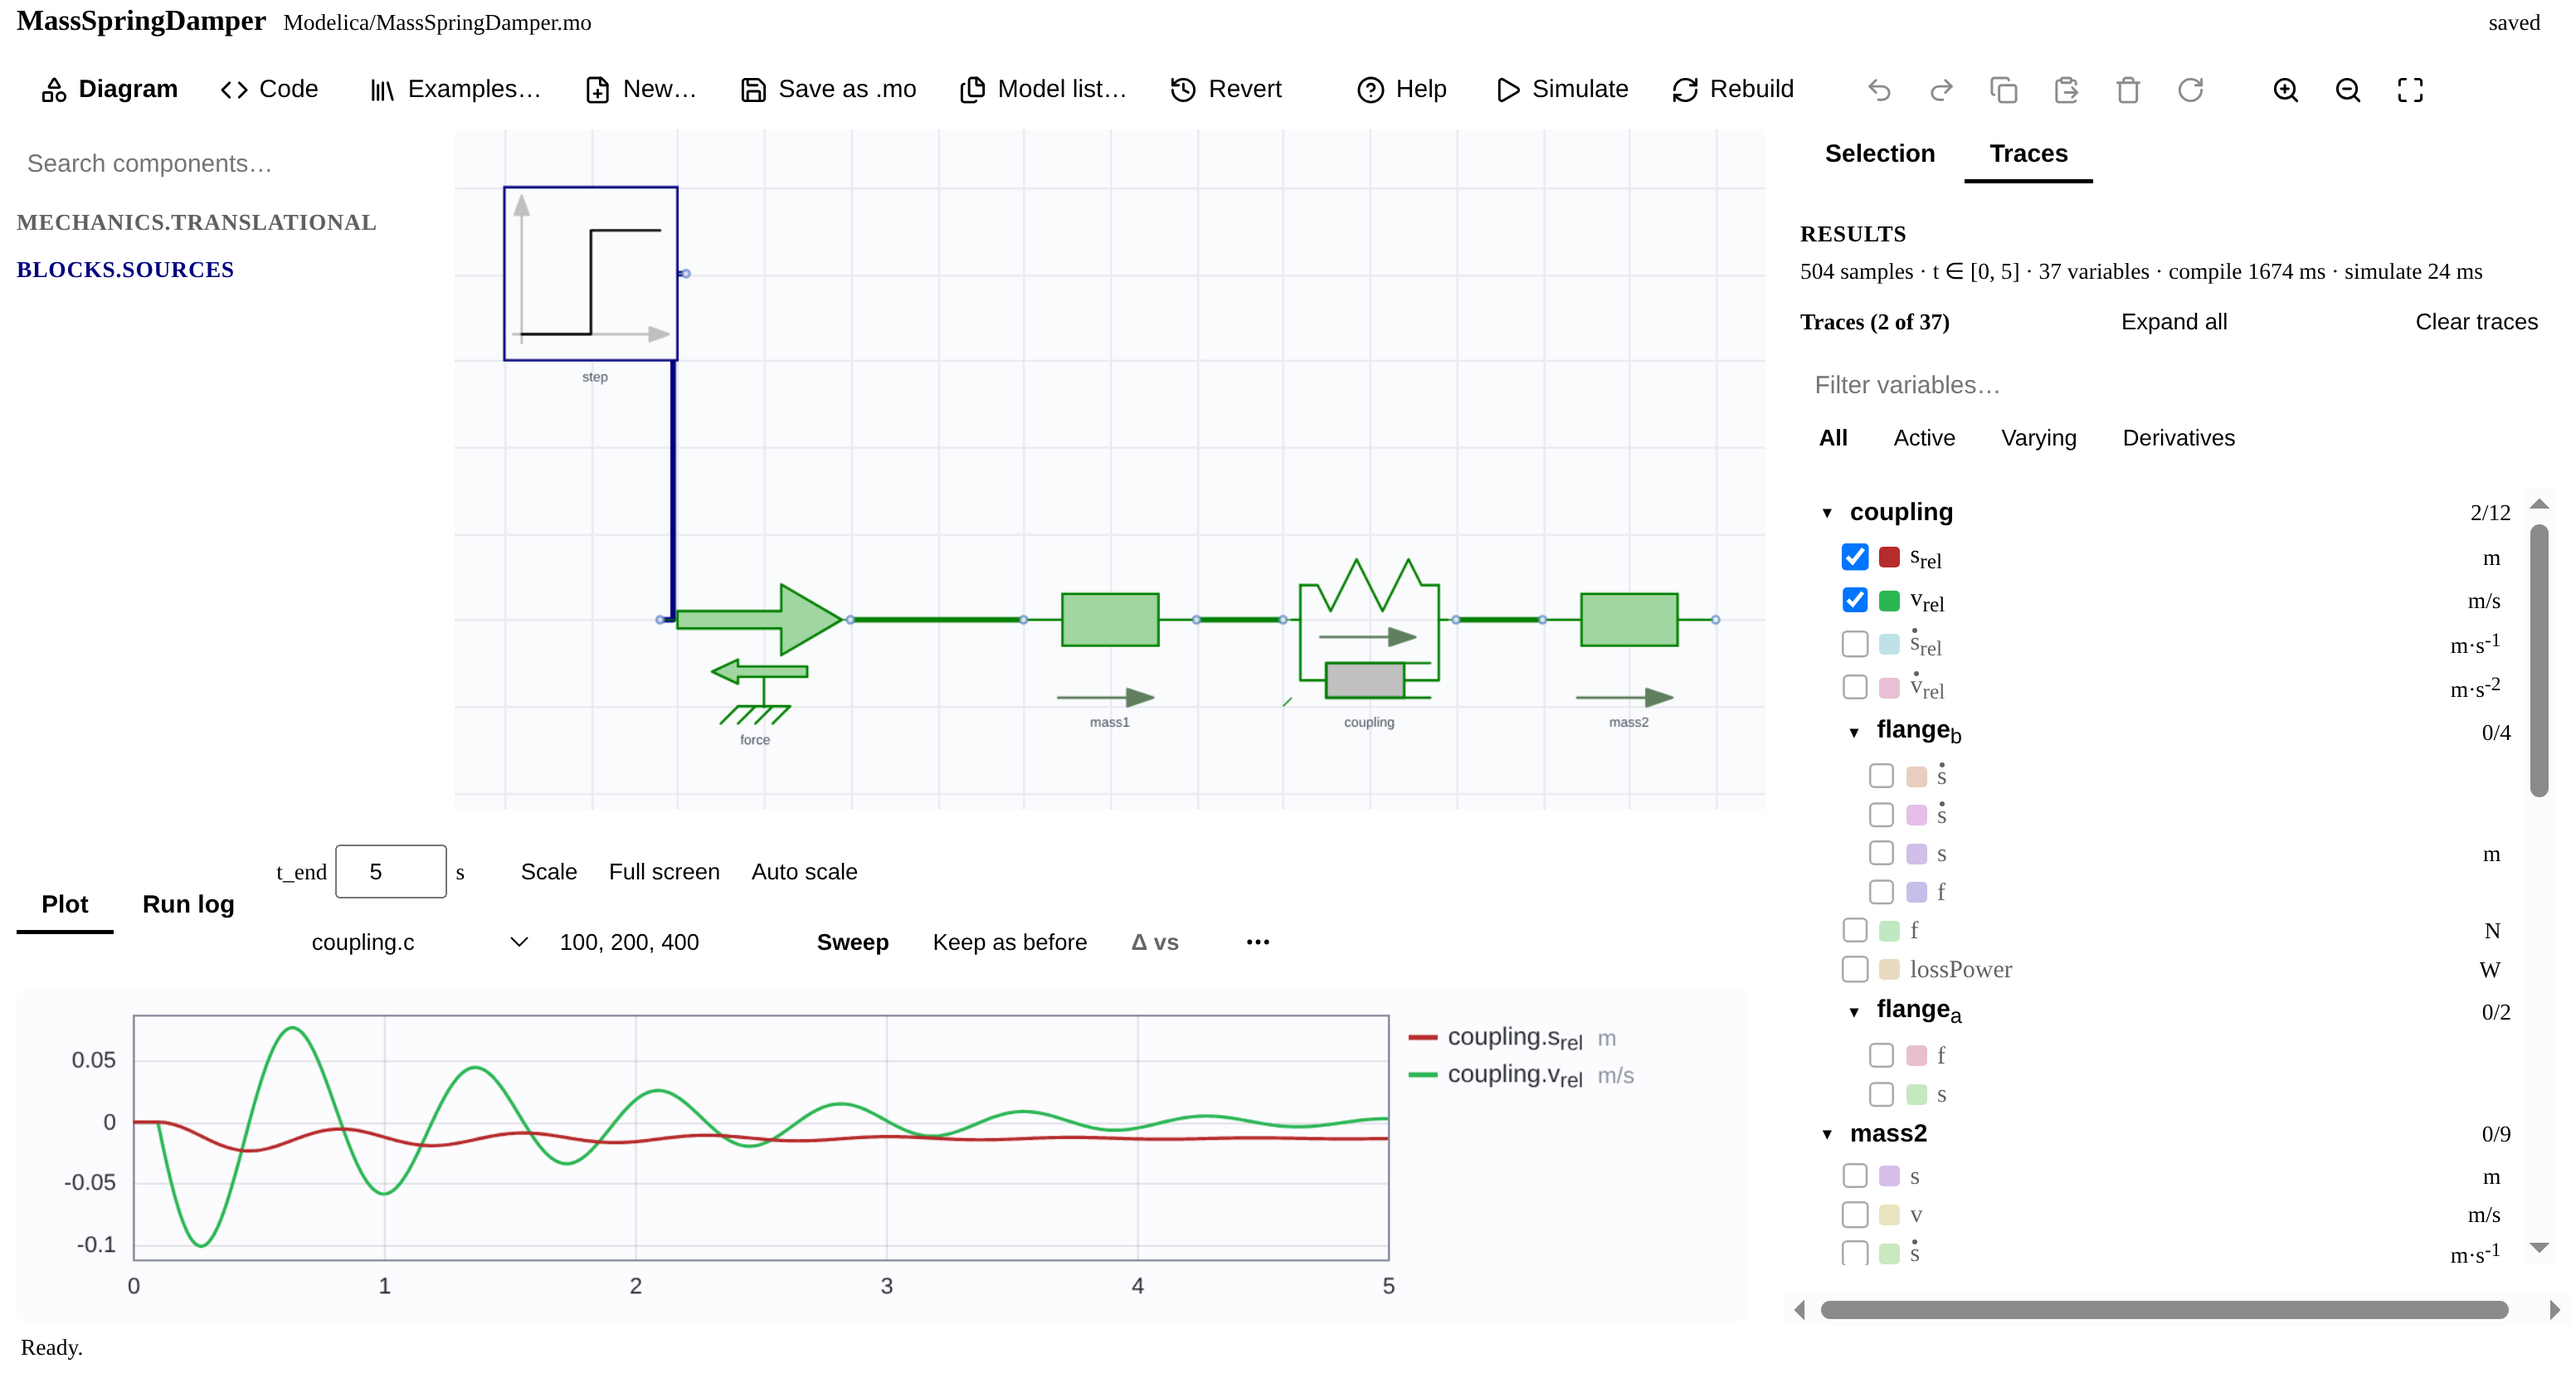
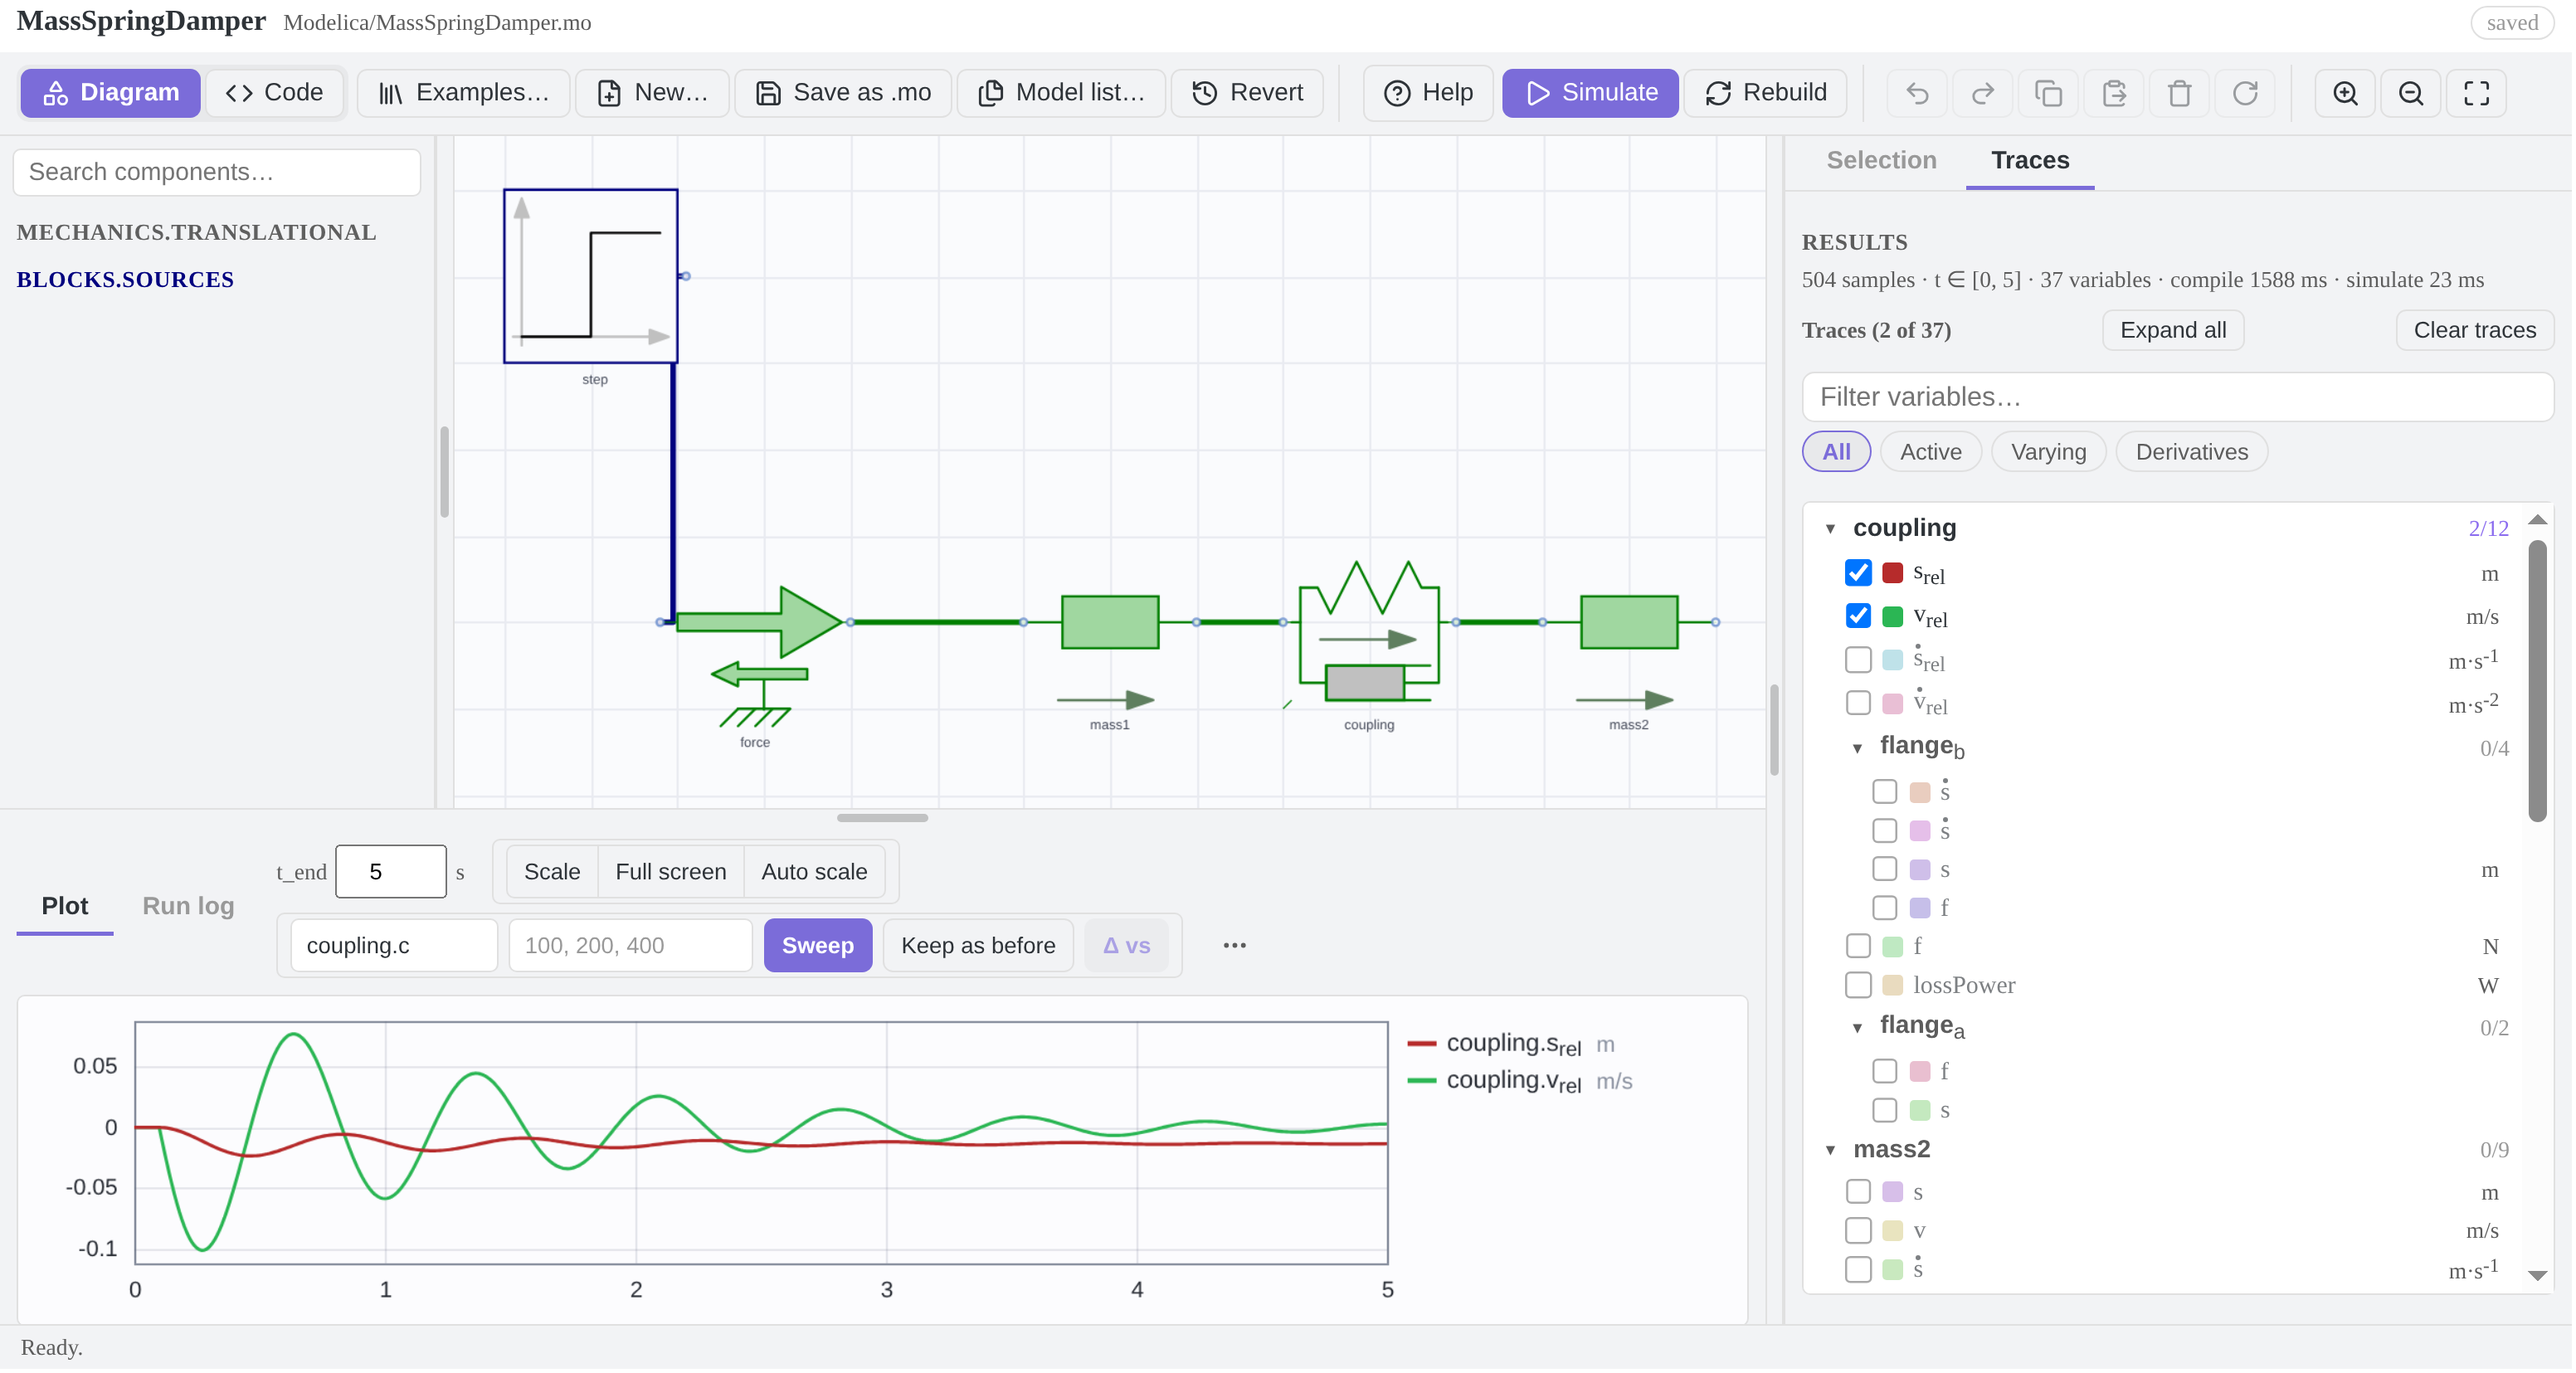
the screenshots were rendered without any theme variables at all
Reported as "some are partly in dark mode", and the cause was not the timing: the
page had NO theme variables. They were read from `/tmp/app.css` when that file
happened to exist and from nothing when it did not — silently — so every panel
resolved `var(--background-primary)` to nothing and drew transparent on white,
while the canvases kept their own colours. Sixteen images shipped that way, and the
audit is blunt about it:

  help-dark.png        24 of 24 regions read as LIGHT (the whole image)
  studio-dark.png      17 of 24
  embed-dark.png        6 of 24
  embedPlot-dark.png    6 of 24
  every other image     0

The theme now comes from the repo — `test/helpers/theme-css.mjs`, the same
stylesheet the rendered DOM tests use — with Obsidian's default LIGHT values added
beside the dark ones it already had; `:root`'s dark values applied whatever class
the body carried, so `theme-light` rendered dark. The Help panel, which builds a
page of its own, was reading the same missing file and hard-coding a light body.

And the images are now CHECKED rather than trusted, which is what the report was
really asking for: after each capture the run measures the 80th-percentile
luminance of a grid of regions and fails, writing nothing, if a region belongs to
the other theme. It waits for two animation frames rather than for a duration
before capturing. Both are new, and the check immediately earned its place — it
caught the Help panel being captured in the light theme on the first run.
[…]

diff --git a/scripts/readme-scenes.ts b/scripts/readme-scenes.ts
@@ -56,6 +56,14 @@ declare global {
     __sceneHelp: () => unknown;
     __sceneStudio: (data: SceneData) => unknown;
     __SCENES__: SceneData;
+    /**
+     * The 80th-percentile luminance of a grid of regions in an image, and two frames'
+     * worth of waiting. Used by the Node side to CHECK each screenshot rather than
+     * trust it: an image rendered before its theme reached the page is exactly the
+     * failure a fixed sleep cannot see.
+     */
+    __shotGrid: (dataUrl: string, cols: number, rows: number) => Promise<number[][]>;
+    __nextPaint: () => Promise<void>;
   }
 }
 
@@ -597,4 +605,52 @@ window.__sceneStudio = async (data) => {
   } catch (err) {
     return fail(err);
   }
+};
+
+
+/**
+ * Wait until the page has actually painted.
+ *
+ * Two frames: the first ends the frame in which whatever changed was applied, the second is
+ * the one that shows it. A `setTimeout` sleeps for a duration and hopes; this waits for the
+ * event, and the Node side verifies the pixels afterwards because even this cannot promise
+ * that a canvas someone else owns has been redrawn.
+ */
+window.__nextPaint = () =>
+  new Promise<void>((resolve) =>
+    requestAnimationFrame(() => requestAnimationFrame(() => resolve()))
+  );
+
+/** The 80th-percentile luminance of each region of an image, as a grid. */
+window.__shotGrid = async (dataUrl: string, cols: number, rows: number) => {
+  const img = new Image();
+  img.src = dataUrl;
+  await img.decode();
+  const canvas = document.createElement("canvas");
+  canvas.width = img.width;
+  canvas.height = img.height;
+  const ctx = canvas.getContext("2d") as CanvasRenderingContext2D;
+  ctx.drawImage(img, 0, 0);
+  const { data } = ctx.getImageData(0, 0, canvas.width, canvas.height);
+  const grid: number[][] = [];
+  for (let ry = 0; ry < rows; ry++) {
+    const row: number[] = [];
+    for (let rx = 0; rx < cols; rx++) {
+      const x0 = Math.floor((rx * canvas.width) / cols);
+      const x1 = Math.floor(((rx + 1) * canvas.width) / cols);
+      const y0 = Math.floor((ry * canvas.height) / rows);
+      const y1 = Math.floor(((ry + 1) * canvas.height) / rows);
+      const values: number[] = [];
+      for (let y = y0; y < y1; y += 3) {
+        for (let x = x0; x < x1; x += 3) {
+          const i = (y * canvas.width + x) * 4;
+          values.push(0.2126 * data[i] + 0.7152 * data[i + 1] + 0.0722 * data[i + 2]);
+        }
+      }
+      values.sort((a, b) => a - b);
+      row.push(Math.round(values[Math.floor(values.length * 0.8)] ?? 0));
+    }
+    grid.push(row);
+  }
+  return grid;
 };
